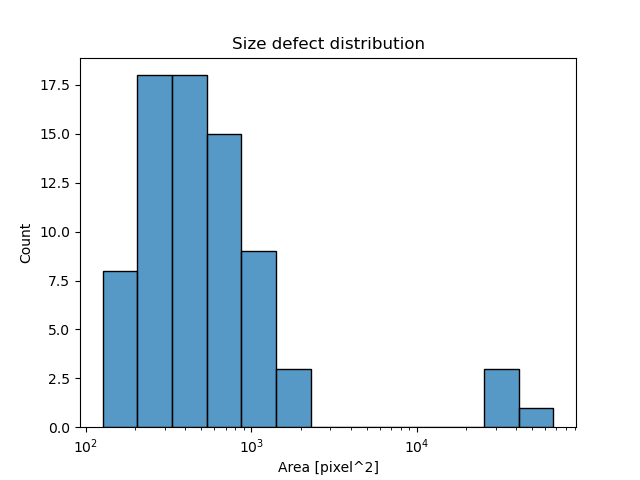
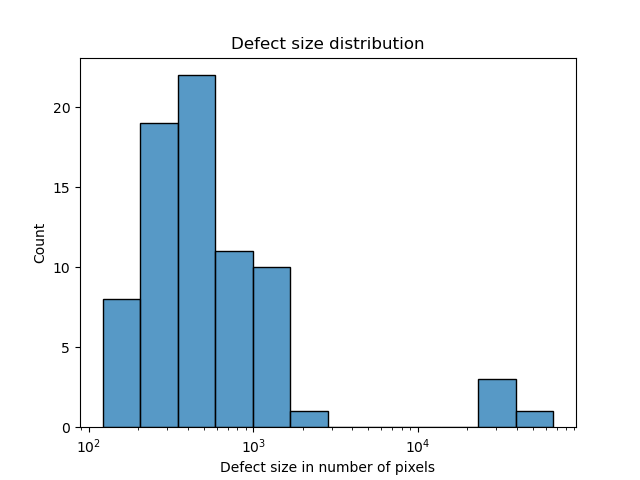
update

diff --git a/code/bb_analyzer.py b/code/bb_analyzer.py
@@ -14,7 +14,7 @@ class BbAnalyzer:
         self.data = json.load(f)
         self.images = utils.get_file_paths(defect_dir)
 
-    def createSdHistogramFast(self, bins: 'list'):
+    def createSdHistFast(self, bins: 'list'):
         columns = self.data["images"][0]["width"]
         rows = self.data["images"][0]["height"]
         data = self.data["annotations"]
@@ -26,47 +26,107 @@ class BbAnalyzer:
         plt.title("Spatial defect centroid distribution")
         plt.colorbar()
 
-    def createSdHistogram(self, bins: 'list'):
+    def createSdHist(self, bins: 'list'):
         columns = self.data["images"][0]["width"]
         rows = self.data["images"][0]["height"]
         data = self.data["annotations"]
-        boxes, ids = np.asarray(list((defect["bbox"] for defect in data))), np.asarray(list((defect["image_id"] for defect in data))),
-        centroids = utils.computeCentroid(boxes, ids, self.images)
+        centroids = utils.computeCentroid(data, self.images)
         x = [centroid[0] for centroid in centroids]
         y = [centroid[1] for centroid in centroids]
         plt.hist2d(x, y, range=[[0, columns], [0, rows]], bins=bins)
         plt.title("Spatial defect centroid distribution")
         plt.colorbar()
 
-    def createDefSizeHistogram(self):
+    def createDefAreaHist(self):
         data = self.data['annotations']
         areas = np.asarray(list((sub["area"] for sub in data)))
         sns.histplot(areas, log_scale=True)
-        plt.title("Size defect distribution")
-        plt.xlabel("Area [pixel^2]")
+        plt.title("Defect area distribution")
+        plt.xlabel("Area")
 
-    def createNumOfDefPerImgHistogram(self):
+    def createNumOfDefPerImgHist(self):
         data = self.data['annotations']
         ids = np.asarray(list((sub["image_id"] for sub in data)))
         sns.histplot(ids, discrete=True)
         plt.title("Number of defects per image")
         plt.xlabel("Image id")
 
-    def createDefSizePerImgHistogram(self):
+    def createDefAreaPerImgHist(self):
         data = self.data['annotations']
         ids = list((sub["image_id"] for sub in data))
         areas = np.asarray(list((sub["area"] for sub in data)))
         hist_data = pd.DataFrame({"Image_id":ids, "Area": areas})
-        sns.histplot(hist_data, x='Image_id', y='Area', log_scale=(False, True), discrete=True, cbar=True)
+        sns.histplot(hist_data, x='Image_id', y='Area', log_scale=(False, True), discrete = (True, False), cbar=True, bins = (10, 10))
         plt.title("Defect area per image")
         plt.xlabel("Image id")
 
-    def createNumOfDefPfrImgHistogram(self):
+    def createNumOfDefPfrImgHist(self):
         data = self.data['annotations']
         #SizeIdPairs = {"image_id": sub['image_id'], "area" }
         #sns.histplot(ids, discrete=True)
         plt.title("Number of defects per image")
         plt.xlabel("Image id")
+
+    def createDefPixelIntHist(self, bins):
+        data = self.data["annotations"]
+        defects = utils.getDefects(data, self.images)
+        freqs = np.zeros([256])
+        for defect in defects:
+            freqs = utils.addFrequencies(freqs, defect.ravel())
+        data = {'Frequency': freqs / np.sum(freqs), 'Intensity': np.arange(256)}
+        sns.histplot(data, x='Intensity', weights='Frequency', bins=bins, discrete=True)
+        plt.ylabel("Frequency(normalized)")
+        plt.title("Overall defect pixel distribution")
+
+    def createKDEDefPixelIntHist(self):
+        data = self.data["annotations"]
+        defects = utils.getDefects(data, self.images)
+        freqs = np.zeros([256])
+        for defect in defects:
+            freqs = utils.addFrequencies(freqs, defect.ravel())
+        data = {'Frequency': freqs / np.sum(freqs), 'Intensity': np.arange(256)}
+        sns.kdeplot(data, x='Intensity', weights='Frequency', bw_adjust=0.1)
+        plt.ylabel("Frequency(normalized)")
+        plt.title("Overall defect pixel distribution density")
+
+    def createDefPixNumHist(self):
+        data = self.data["annotations"]
+        defects = utils.getDefects(data, self.images)
+        hist_data = [np.count_nonzero(defect) for defect in defects]
+        sns.histplot(hist_data, log_scale=True)
+        plt.ylabel("Count")
+        plt.xlabel("Defect size in number of pixels")
+        plt.title("Defect size distribution")
+
+    def createDefPixSizeHist(self):
+        data = self.data["annotations"]
+        defects = utils.getDefects(data, self.images)
+        pixels = []
+        sizes = []
+        for defect in defects:
+            size = np.count_nonzero(defect)
+            for row in defect:
+                for pixel in row:
+                    pixels.append(pixel)
+                    sizes.append(size)
+        #hist_data = pd.DataFrame(pixels_and_sizes, columns=['Pixel_value', 'Size'])
+        #sns.histplot(hist_data, x='Pixel_value', y='Size', log_scale=(False, True), bins=(50, 50), cbar=True, fill=True)
+        plt.hist2d(x=pixels, y=np.log10(sizes), bins = [40, 40])
+        plt.colorbar()
+        plt.ylabel("Size powers")
+
+
+
+
+
+
+
+
+
+
+
+
+
 
 
 

diff --git a/code/utils.py b/code/utils.py
@@ -13,8 +13,10 @@ def addFrequencies(freqs: 'np.ndarray', list: 'list'):
         freqs[i] += 1
     return freqs
 
-def computeCentroid(boxes: 'np.ndarray', ids: 'np.ndarray', files: 'list'):
+def computeCentroid(data: 'dict', files: 'list'):
     """computes coordinates of centroids and returns them as list"""
+    boxes, ids = (np.asarray(list((defect["bbox"] for defect in data))),
+                  np.asarray(list((defect["image_id"] for defect in data))))
     centroids = []
     images = [np.array(Image.open(file).convert('L')) for file in files]
     for i in range(len(boxes)):
@@ -34,4 +36,20 @@ def computeCentroid(boxes: 'np.ndarray', ids: 'np.ndarray', files: 'list'):
                 sum_y += y0 + j*defect[j][i]/255
         centroids.append([sum_x/(columns*rows), sum_y/(columns*rows)])
     return centroids
+
+def getDefects(data: 'dict', files: 'list'):
+    boxes, ids = (np.asarray(list((defect["bbox"] for defect in data))),
+                  np.asarray(list((defect["image_id"] for defect in data))))
+    defects = []
+    images = [np.array(Image.open(file).convert('L')) for file in files]
+    for i in range(len(boxes)):
+        box = boxes[i]
+        image = images[ids[i]]
+        x0 = int(box[0])
+        y0 = int(box[1])
+        columns = int(box[2])
+        rows = int(box[3])
+        defect = image[y0:(y0 + rows), x0:(x0 + columns)]
+        defects.append(defect)
+    return defects
 

diff --git a/code/Main.py b/code/Main.py
@@ -20,11 +20,20 @@ def main():
     plt.title("Spatial defect centroid distribution (bins = 90 X 72)")
     """
     fig1 = plt.figure()
-    myBa.createDefSizePerImgHistogram()
+    myBa.createDefAreaHist()
+    fig2 = plt.figure()
+    myBa.createDefPixelIntHist(bins = 256)
+    fig3 = plt.figure()
+    myBa.createDefPixNumHist()
+    fig4 = plt.figure()
+    myBa.createDefAreaPerImgHist()
+    fig5 = plt.figure()
+    myBa.createDefPixSizeHist()
     if len(sys.argv) > 1:
-        fig1.savefig(sys.argv[1] % 'defect_size_per_image_dist')
-        #fig2.savefig(sys.argv[1] % 'real_centroid_distribution_(50X40)')
-        #fig3.savefig(sys.argv[1] % 'real_centroid_distribution_(90X72)')
+        fig1.savefig(sys.argv[1] % 'defect_area_dist')
+        fig2.savefig(sys.argv[1] % 'defect_pixel_distribution')
+        fig3.savefig(sys.argv[1] % 'defect_size_distribution')
+        fig4.savefig(sys.argv[1] % 'defect_area_per_image')
     else:
         plt.show()
 

diff --git a/code/test.py b/code/test.py
@@ -9,5 +9,6 @@ ids = np.asarray(list((sub["image_id"] for sub in data)))
 print(ids)
 
 a = [[1, 3], [2, 4]]
+print(data)
 
 
